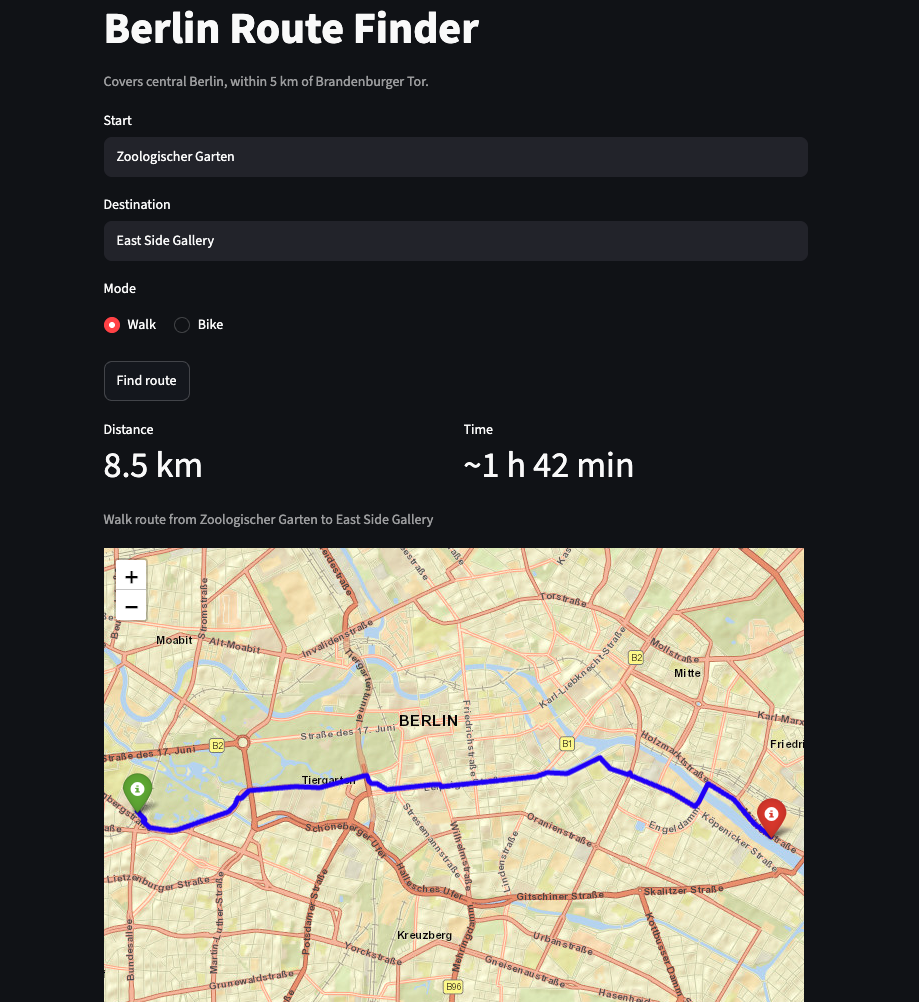
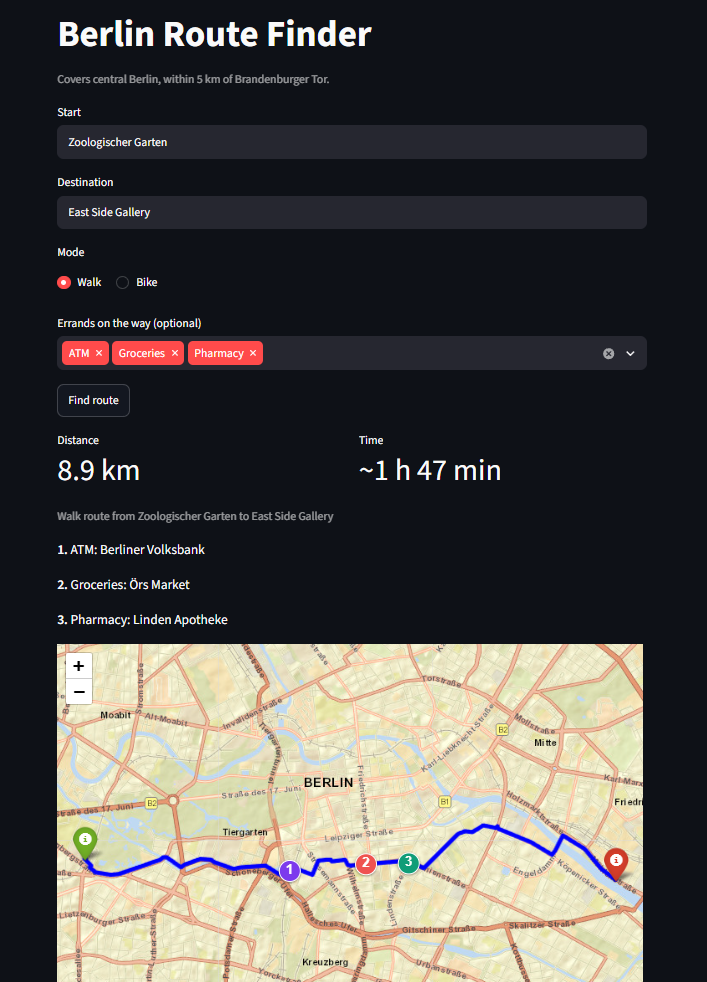
Update README for the errand planner

diff --git a/src/planner.py b/src/planner.py
@@ -59,21 +59,6 @@ def plan_trip(G, index, start, end, shops, kinds, k=5):
                 legs[a, b] = (None, float("inf"))
         return legs[(a, b)]
 
-    # best_stops, best_distance = None, float("inf")
-
-    # # Try every combination of shops
-    # for choice in itertools.product(*candidates):
-    #     # Try every order of visiting them
-    #     for order in itertools.permutations(choice):
-    #         trip = [start, *order, end]
-    #         distance = sum(leg(a, b)[1] for a, b in zip(trip, trip[1:]))
-
-    #         if distance < best_distance:
-    #             best_stops, best_distance = list(order), distance
-
-    # if best_stops is None:
-    #     raise nx.NetworkXNoPath("No route found")
-
     best_stops, best_distance = best_trip(start, end, candidates, lambda a, b: leg(a, b)[1])
 
     # Join the legs of the best trip into one route for the map
@@ -87,40 +72,52 @@ def plan_trip(G, index, start, end, shops, kinds, k=5):
 
  
 def best_trip(start, end, candidates, dist):
+    """
+    Shortest trip from start to end visiting one shop of each kind (dynamic programming).
+    """
     if not candidates:
         return [], dist(start, end)
 
     all_kinds = frozenset(range(len(candidates)))
 
-    # Key = situation: (visited, shop)
-    best = {}  # shortest distance from start for each situation, e.g. best[({0, 1}, P1)] = 1400
-    prev = {}  # the situation before it, to rebuild the trip at the end
+    # Key = state: (visited, shop)
+    best = {}  # shortest distance from start for each state, e.g. best[({0, 1}, P1)] = 1400
+    prev = {}  # the state before it, to rebuild the trip at the end
 
     # First stop: walk from start to any shop
     for kind, group in enumerate(candidates):
         for shop in group:
-            situation = (frozenset([kind]), shop)
-            best[situation] = dist(start, shop)
-            prev[situation] = None
+            visited = frozenset([kind])
+            state = (visited, shop)
+            best[state] = dist(start, shop)
+            prev[state] = None
 
-    # Add one stop at a time: first all situations with 1 kind visited, then 2, ...
+    # Add one stop at a time: first all states with 1 kind visited, then 2, ...
     for size in range(1, len(candidates)):
-        for (visited, shop), d in list(best.items()):
+        for (visited, shop), curr_dist in list(best.items()):
             if len(visited) != size:
                 continue
             for kind, group in enumerate(candidates):
                 if kind in visited:
                     continue  # this kind is already done
-                for next in group:
-                    new = (visited | {kind}, next)
-                    new_d = d + dist(shop, next)
-                    if new_d < best.get(new, float("inf")):
-                        best[new] = new_d
+                for next_shop in group:
+                    new = (visited | {kind}, next_shop)
+                    new_dist = curr_dist + dist(shop, next_shop)
+                    if new_dist < best.get(new, float("inf")):
+                        best[new] = new_dist
                         prev[new] = (visited, shop)
 
     # Last step: every kind visited, walk to the end, take the shortest
-    total, last = min((d + dist(shop, end), (visited, shop))
-                      for (visited, shop), d in best.items() if visited == all_kinds)
+    total, last = float("inf"), None
+    for (visited, shop), curr_dist in best.items():
+        if visited != all_kinds:
+            continue  # not finished yet
+        trip_length = curr_dist + dist(shop, end)
+        if trip_length < total:
+            total, last = trip_length, (visited, shop)
+
+    if last is None:
+        return None, total
 
     # Walk back through prev to get the stops in order
     stops = []

diff --git a/README.md b/README.md
@@ -2,7 +2,7 @@
 
 ![Tests](https://github.com/ArvellLeoputra/berlin-route-finder/actions/workflows/tests.yml/badge.svg)
 
-On my way home from uni, I usually have a few things to do: drop off a parcel, grab something from the pharmacy, buy groceries. Google Maps can do it, but I have to pick which post office, which pharmacy and which supermarket myself, one by one. So I want to build an app that just figures it out: tell it where I start, where I’m going, and what I need, and it finds the shortest way through everything.
+On my way home from uni, I usually have a few things to do: drop off a parcel, grab something from the pharmacy, buy groceries. Google Maps can do it, but I have to pick which post office, which pharmacy and which supermarket myself, one by one. So I built an app that just figures it out: tell it where I start, where I'm going, and what I need, and it finds the shortest way through everything.
 
 ![Idea sketch of the errand planner](images/idea-sketch.png)
 
@@ -14,17 +14,44 @@ Picking the nearest shop each time feels like the obvious move. But the nearest 
 
 Same shops, same start and end: 10.4 km if I always take the nearest one, 8.7 km for the best combination.
 
-How many trips are there? Pick one of 3 post offices, 3 pharmacies and 3 supermarkets, then visit them in any of 6 orders: 162 trips. Fine for a computer. With 5 errands and 5 branches each, it’s already 375,000, and that’s where it becomes a real optimization problem.
+How many trips are there? Pick one of 3 post offices, 3 pharmacies and 3 supermarkets, then visit them in any of 6 orders: 162 trips. Fine for a computer. With 5 errands and 5 branches each, it's already 375,000, and that's where it becomes a real optimization problem. In research, this is known as the [Trip Planning Query](https://doi.org/10.1007/11535331_16).
 
-## What's built so far
-
-This repo is the first building block: fast shortest walking and cycling routes on Berlin's real street network. My first version took over a minute per search. Now it takes milliseconds.
+## What it does
 
 **Live:** https://berlin-route-finder.streamlit.app
 
+Enter a start and a destination, pick walking or cycling, and optionally add errands: post office, pharmacy, groceries, bakery, ATM, drugstore. The app picks one real shop of each kind and the order to visit them, and shows the trip on the map with numbered stops.
+
 ![Screenshot](images/dashboard.png)
 
-## How it got faster
+It's built in two layers:
+
+1. **Fast routing** between two points on Berlin's real street network. My first version took over a minute per search. Now it takes milliseconds.
+
+2. **The errand planner** on top, which uses that routing to compare many possible trips.
+
+## How the planner works
+
+Berlin has a lot of shops: in the covered area there are 63 post offices, 201 pharmacies, 398 supermarkets, 493 bakeries, 572 ATMs and 93 drugstores. Trying every combination is impossible (for 3 errands alone, about 30 million trips), so the planner works in two steps.
+
+1. **Shortlist.** For each kind, keep the 5 shops with the smallest detour in straight lines (start → shop → end). This only needs arithmetic, no routing. Then compute real walking routes only between the start, the end and the shortlisted shops, each pair once.
+
+2. **Dynamic programming.** Instead of building every full trip, build trips one stop at a time and keep only the shortest way to each state: which kinds are visited, and which shop I'm standing at. For example, `Uni → P1 → Ph1` and `Uni → P2 → Ph1` both end at the pharmacy with the post office done. Whatever comes next is the same for both, so only the shorter one is kept and continued. This is the Held–Karp idea from the travelling salesman problem.
+
+With 6 errands and 5 shops each, that's about 2,000 states instead of 11 million trips, and the search itself runs in milliseconds. Almost all of the planning time goes into the walking routes between the shortlisted places.
+
+The shortlist is a heuristic: a shop that looks like a detour in a straight line can still have a direct street, so a small shortlist can miss the best trip. A bigger shortlist is safer but slower:
+
+| Shortlist per kind | Possible trips | Best trip found | Time |
+|---|---|---|---|
+| 3 | 162 | 6.85 km | 0.42 s |
+| 5 | 750 | 6.67 km | 1.24 s |
+| 8 | 3,072 | 6.67 km | 2.92 s |
+| 10 | 6,000 | 6.64 km | 5.45 s |
+
+TU Berlin → Alexanderplatz with a post office, a pharmacy and groceries, walking, on a MacBook Pro (M1 Pro), `benchmarks/benchmark_planner.py`. Going straight home is about 6.2 km, so with the right shops the three errands only add about 400 m. The app uses 5 shops per kind.
+
+## How the routing got faster
 
 | Version | What changed | Why |
 |---|---|---|
@@ -36,7 +63,7 @@ This repo is the first building block: fast shortest walking and cycling routes 
 | Single search | Took the route and its length from one bidirectional search instead of two | The length came from a second, one-directional Dijkstra search; now both come from the search that finds the route |
 | A* search | Replaced the bidirectional search with A*, which uses the straight-line distance to the destination as a guide | Checks fewer intersections, and since the guide never overestimates, the routes stay the same (2.4–3.5× faster) |
 
-## Results
+## Routing results
 
 | Route | Distance | Live download (first version) | Now | Speedup |
 |---|---|---|---|---|
@@ -68,14 +95,19 @@ The same 200 random routes, each timed best of 3, with and without the index (`b
 
 ## Tests
 
-Run `pytest` to run 9 tests. They check known walking and biking distances, that the fast nearest-intersection index gives the same result as OSMnx, and that A* finds the same distances as the bidirectional search.
+Run `pytest` to run 14 tests:
+- **Routing:** known walking and biking distances, the fast nearest-intersection index gives the same result as OSMnx, and A* finds the same distances as the bidirectional search.
+- **Planner:** the shop data loads, the planner finds the 8.7 km trip from the figure above, every trip visits each kind once and its route really has the reported length, and the dynamic programming search gives the same result as trying every trip.
+
 
 ## How it works
 
 - **Graph:** OSMnx turns OpenStreetMap data into a directed graph. The walk network has 90,663 intersections, the bike network 37,980.
+- **Shops:** downloaded once from OpenStreetMap and saved in `data/shops.csv` (1,820 shops), so the app needs no internet for them.
 - **Geocoding:** place names are resolved with Nominatim and checked against the covered area.
 - **Routing:** start and end snap to the nearest intersection using a BallTree built once at startup, then an A* search in NetworkX, guided by the straight-line distance to the destination, finds the shortest path, weighted by street length.
-- **App:** Streamlit, with the graphs and indexes loaded at startup and the route kept in session state so it survives Streamlit's reruns.
+- **Planner:** shortlist per kind, walking routes between the shortlisted places (each pair computed once), then dynamic programming over "kinds visited + current shop".
+- **App:** Streamlit, with the graphs, indexes and shops loaded at startup and the route kept in session state so it survives Streamlit's reruns.
 
 ## Project structure
 
@@ -83,26 +115,30 @@ Run `pytest` to run 9 tests. They check known walking and biking distances, that
 app.py                 Streamlit app (entry point)
 src/
   routing.py           graph helpers, nearest-intersection index, routing, map
+  planner.py           errand planner: shortlist and dynamic programming
   config.py            covered area (center and radius)
   build_graph.py       downloads and saves the street graphs
+  build_shops.py       downloads and saves the shops
 benchmarks/            timing scripts
 tests/                 pytest tests
-data/                  preloaded street graphs (.graphml.gz)
-images/                screenshot, idea sketches and benchmark chart
+data/                  street graphs (.graphml.gz) and shops (shops.csv)
+images/                screenshots, figures and benchmark chart
 ```
 
 ## Limitations
 
 - Only covers places within 5 km of Brandenburger Tor.
 - Travel time uses average speeds (5 km/h walking, 15 km/h cycling).
+- The shortlist can miss the best shop, so the planner finds a very good trip, not always the best one.
+- Shops come from OpenStreetMap: some have no name, opening hours are ignored, and "post office" includes the small Deutsche Post / DHL partner shops in kiosks.
 - Snapping to the nearest intersection isn't always optimal: a slightly farther entry point can give a shorter total route.
 - The live app runs on a free server, so its startup is likely slower than the laptop numbers above, and it goes to sleep when nobody uses it for a while.
 
 ## What's next
 
-The goal is the errand planner from the top. It needs two more things: the locations of the shops (from OpenStreetMap), and a way to choose which branch of each kind to visit and in what order. I built the fast routing first, because the planner has to compare many possible routes.
-
-Smaller ideas: smarter snapping that considers several nearby intersections, not just the closest one.
+- An exact planner that searches the whole street map without a shortlist, so it always finds the best trip. Then I can measure how often the shortlist misses it, and by how much.
+- Order rules, like "groceries last", so I don't carry shopping bags around.
+- Opening hours, to skip shops that are closed.
 
 ## Run locally
 
@@ -115,7 +151,9 @@ pip install -r requirements.txt
 streamlit run app.py
 ```
 
-To rebuild the street graphs: `python -m src.build_graph`.
+To download the data again (needs internet): 
+- `python -m src.build_graph` for the street graphs
+- `python -m src.build_shops` for the shops.
 
 To reproduce the timings:
 
@@ -123,9 +161,10 @@ To reproduce the timings:
 - `python -m benchmarks.benchmark_live`: the first version (needs internet)
 - `python -m benchmarks.benchmark_scaling`: the 200-route chart
 - `python -m benchmarks.benchmark_astar`: A* vs bidirectional search
+- `python -m benchmarks.benchmark_planner`: planner with different shortlist sizes
 
 To run the tests: `pytest`
 
 ## Data
 
-Street data © OpenStreetMap contributors, available under the Open Database License.
+Street and shop data © OpenStreetMap contributors, available under the Open Database License.
